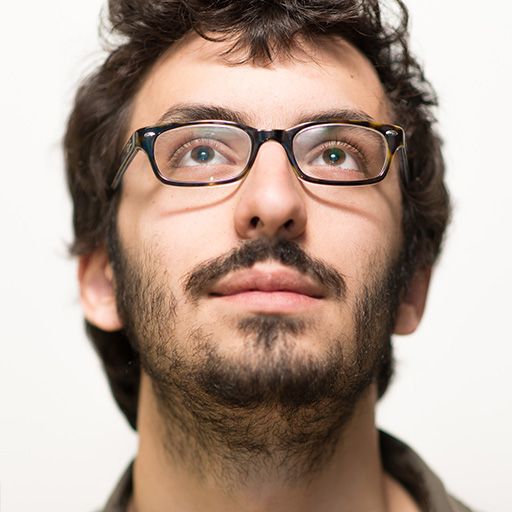
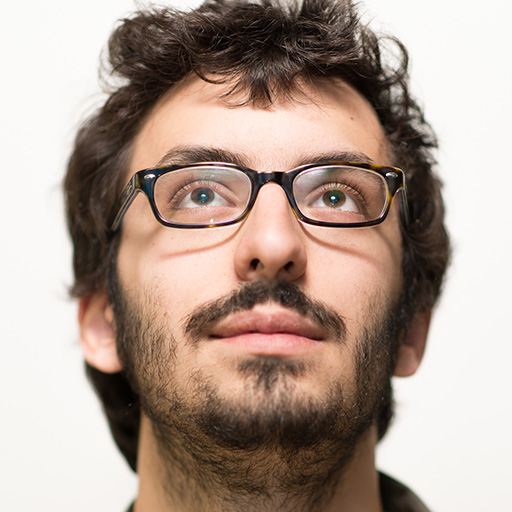
Look up guys !

diff --git a/use-cases.html b/use-cases.html
@@ -3,7 +3,7 @@ title: AnyFetch | Use cases
 layout: main
 ---
 
-<div class="container content">
+<div class="container content" data-spy="scroll" data-target="#sidebar">
 
 	<div class="row row-offcanvas row-offcanvas-right">
 
@@ -18,7 +18,7 @@ layout: main
 						<div class="row">
 							<div class="col-lg-6">
 								<span class="invisible-anchor" id="project1">&nbsp;</span>
-								<h2>The ultimate business assistant </h2>
+								<h2 id="use-case1">The ultimate business assistant </h2>
 								<p>We are on a mission to revolutionize CRM and the way business users interact with their data. AnyFetch provides contextual feeds providing the information you need, directly within Salesforce and Salesforce1. We created AnyFetch for Salesforce because we, ourselves, wanted to use it. Check out the dedicated website here.</p>
 								<p><a class="btn btn-default" href="http://salesfetch.anyfetch.com" role="button">Salesforce &raquo;</a></p>
 							</div>
@@ -42,7 +42,7 @@ layout: main
 							</div>
 							<div class="col-lg-6 col-lg-offset-1">
 								<span class="invisible-anchor" id="project2">&nbsp;</span>
-								<h2>Revolutionizing enterprise search</h2>
+								<h2 id="use-case2">Revolutionizing enterprise search</h2>
 								<p>AnyFetch is trusted by IT experts in fiels such as Insurance, Banking, consulting and software development. See how IT services are leveraging AnyFetch to deliver value to their core businesses.</p>
 								<p><a class="btn btn-default" href="./how-it-works.html" role="button">View details &raquo;</a></p>
 							</div>
@@ -59,7 +59,7 @@ layout: main
 						<div class="row">
 							<div class="col-lg-6">
 								<span class="invisible-anchor" id="project3">&nbsp;</span>
-								<h2>Developers love it</h2>
+								<h2 id="use-case3">Developers love it</h2>
 								<p>Check out what developers do with AnyFetch, and how they deliver value to their users by providing great user experience. It is only a matter of minutes to get to production, and you can fully test it beforehand.</p>
 								<p><a class="btn btn-default" href="developers.html" role="button">See why &raquo;</a></p>
 							</div>
@@ -77,7 +77,7 @@ layout: main
 		</div><!--/span-->
 
 		<div class="col-xs-6 col-sm-3 sidebar-offcanvas" id="sidebar" role="navigation">
-			<div class="list-group">
+			<div class="nav list-group">
 				<a href="#project1" class="list-group-item" data-spy="scroll" data-target=".navbar-example">Business assistant</a>
 				<a href="#project2" class="list-group-item">Entreprise search</a>
 				<a href="#project3" class="list-group-item">Developers</a>

diff --git a/about-us.html b/about-us.html
@@ -11,7 +11,7 @@ layout: main
 				<hr>
 					<div class="col-lg-3">
 						<div class="thumbnail-portrait">
-						<img class="portrait" src="images/mehdi.jpg">
+						<img class="portrait" src="images/mehdi-haut.jpg">
 							<div class="caption">
 								<h4>Mehdi Bouheddi</h4>
 								<p>CEO</p>
@@ -20,7 +20,7 @@ layout: main
 					</div>
 					<div class="col-lg-3">
 						<div class="thumbnail-portrait">
-						<img class="portrait" src="images/matthieu.jpg">
+						<img class="portrait" src="images/matthieu-haut.jpg">
 							<div class="caption">
 								<h4>Matthieu Bacconnier</h4>
 								<p>CTO</p>
@@ -29,7 +29,7 @@ layout: main
 					</div>
 					<div class="col-lg-3">
 						<div class="thumbnail-portrait">
-						<img class="portrait" src="images/hugo.jpg">
+						<img class="portrait" src="images/hugo-haut.jpg">
 							<div class="caption">
 								<h4>Hugo Duroux</h4>
 								<p>Backend</p>
@@ -38,7 +38,7 @@ layout: main
 					</div>
 					<div class="col-lg-3">
 						<div class="thumbnail-portrait">
-						<img class="portrait" src="images/tanguy.jpg">
+						<img class="portrait" src="images/tanguy-haut.jpg">
 							<div class="caption">
 								<h4>Tanguy Helesbeux</h4>
 								<p>Product</p>
